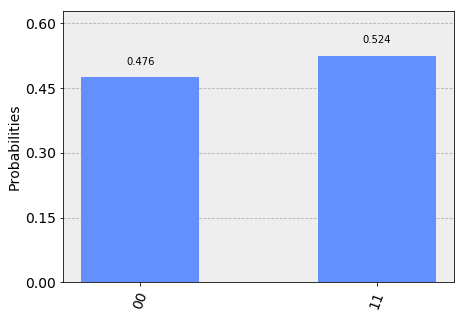
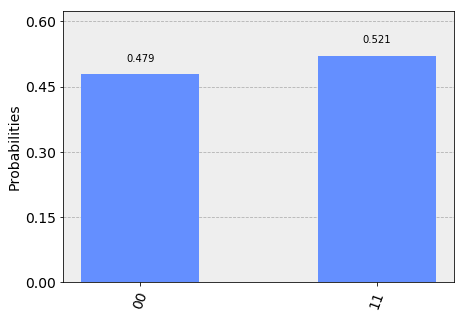
fix getting started (#321)
* closes #319 
make histograms and print statements agree

* Update getting_started.rst

remove merge markers

diff --git a/docs/getting_started.rst b/docs/getting_started.rst
@@ -27,33 +27,33 @@ subsequent sections:
     simulator = Aer.get_backend('qasm_simulator')
 
     # Create a Quantum Circuit acting on the q register
-    circ = QuantumCircuit(2,2)
+    circuit = QuantumCircuit(2,2)
 
     # Add a H gate on qubit 0
-    circ.h(0)
+    circuit.h(0)
 
     # Add a CX (CNOT) gate on control qubit 0 and target qubit 1
-    circ.cx(0,1)
+    circuit.cx(0,1)
 
     # Map the quantum measurement to the classical bits
-    circ.measure([0,1],[0,1])
+    circuit.measure([0,1],[0,1])
 
     # Execute the circuit on the qasm simulator
-    job = execute(circ, simulator, shots=1024)
+    job = execute(circuit, simulator, shots=1000)
 
     # Grab results from the job
     result = job.result()
 
     # Returns counts
-    counts = result.get_counts(circ)
+    counts = result.get_counts(circuit)
     print("\nTotal count for 00 and 11 are:",counts)
 
     # Draw the circuit
-    circ.draw(output='mpl')
+    circuit.draw(output='mpl')
 
 .. code-block:: text
 
-    Total count for 00 and 11 are: {'00': 487, '11': 537}
+    Total count for 00 and 11 are: {'00': 479, '11': 521}
 
 .. image:: /images/figures/getting_started_1_1.png
    :alt: Quantum Circuit with an H gate and controlled nots.
@@ -194,13 +194,13 @@ circuit will yield either the bit string 00 or 11.
     simulator = Aer.get_backend('qasm_simulator')
     job = execute(circuit, simulator, shots=1000)
     result = job.result()
-    counts = result.get_counts(circ)
+    counts = result.get_counts(circuit)
     print("\nTotal count for 00 and 11 are:",counts)
 
 
 .. code-block:: text
 
-    Total count for 00 and 11 are: {'00': 504, '11': 496}
+    Total count for 00 and 11 are: {'00': 479, '11': 521}
 
 As expected, the output bit string is 00 approximately 50 percent of the time.
 The number of times the circuit is run can be specified via the ``shots``
@@ -224,7 +224,7 @@ the function ``plot_histogram``, to view your results.
 
     plot_histogram(counts)
 
-.. image:: ./images/figures/getting_started_14_0.png
+.. image:: images/figures/getting_started_2_0.png
    :alt: Histogram of results.
 
 The observed probabilities :math:`Pr(00)` and :math:`Pr(11)` are computed by
